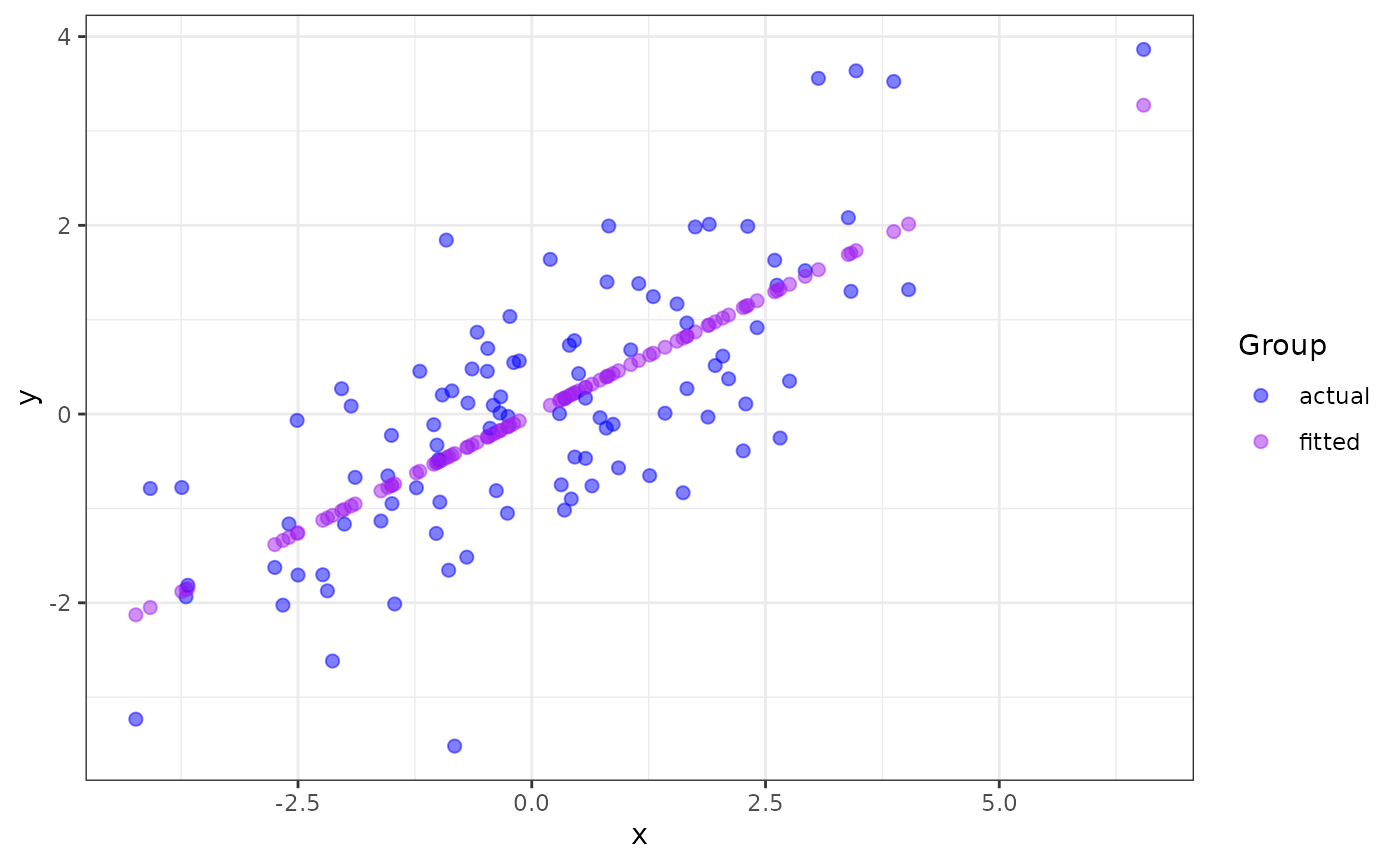
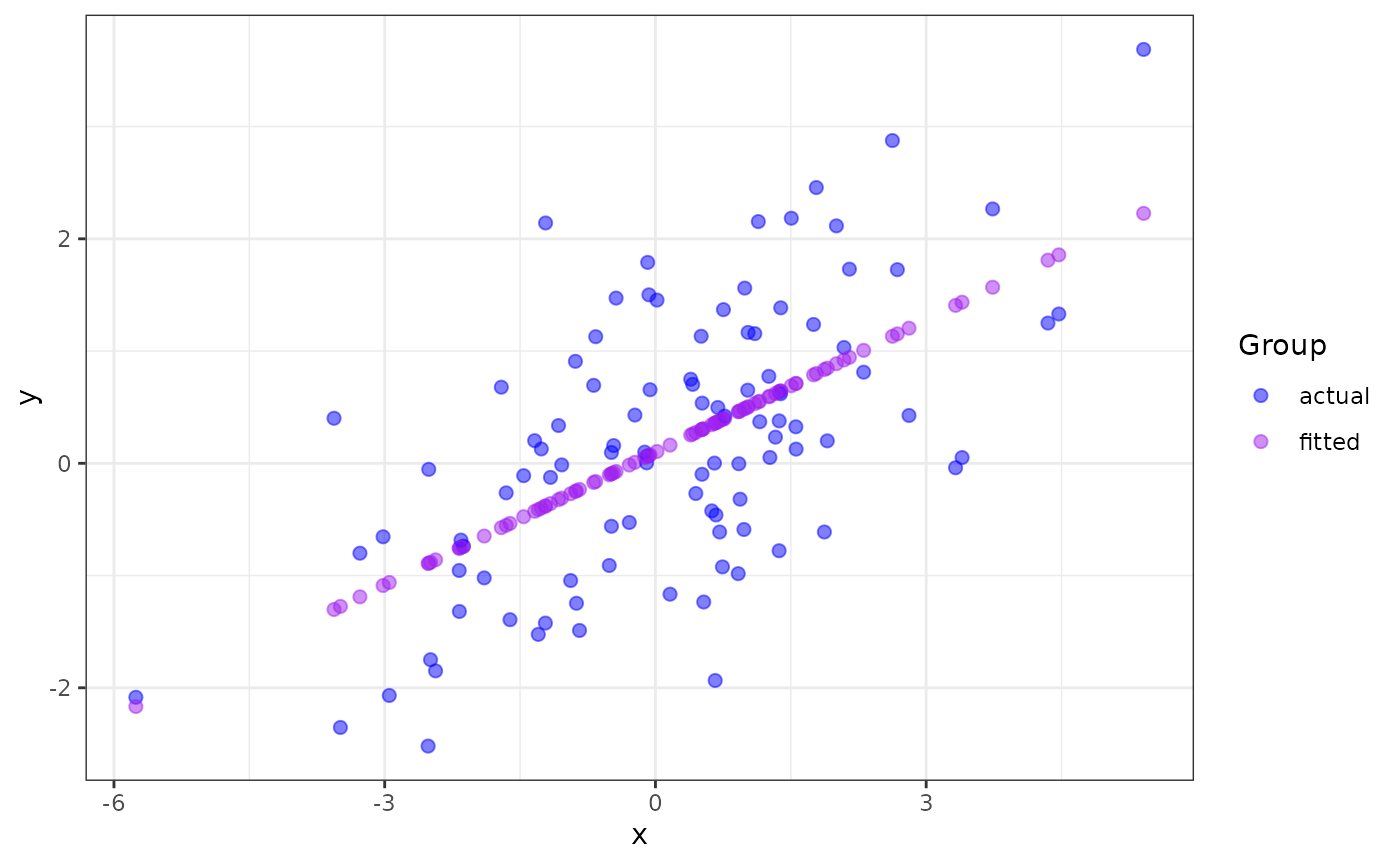
Built site for ggmatplot: 0.1.2@0722214

diff --git a/articles/ggmatplot.html b/articles/ggmatplot.html
@@ -103,7 +103,7 @@
 <span class="va">x</span> <span class="op">&lt;-</span> <span class="fu"><a href="https://rdrr.io/r/base/c.html" class="external-link">c</a></span><span class="op">(</span><span class="fu"><a href="https://rdrr.io/r/stats/Normal.html" class="external-link">rnorm</a></span><span class="op">(</span><span class="fl">100</span>, sd <span class="op">=</span> <span class="fl">2</span><span class="op">)</span><span class="op">)</span>
 
 <span class="fu"><a href="https://rdrr.io/r/utils/head.html" class="external-link">head</a></span><span class="op">(</span><span class="va">x</span><span class="op">)</span>
-<span class="co">#&gt; [1]  1.4253932 -0.4119434  4.0306161 -0.2535960 -2.7484948  0.4224148</span>
+<span class="co">#&gt; [1]  0.9803361  0.5351112  0.6707885 -2.5120167  2.6256198  0.6911889</span>
 
 <span class="co"># matrix z</span>
 <span class="va">y</span> <span class="op">&lt;-</span> <span class="va">x</span> <span class="op">*</span> <span class="fl">0.5</span> <span class="op">+</span> <span class="fu"><a href="https://rdrr.io/r/stats/Normal.html" class="external-link">rnorm</a></span><span class="op">(</span><span class="fl">100</span>, sd <span class="op">=</span> <span class="fl">1</span><span class="op">)</span>
@@ -112,13 +112,13 @@
            fitted <span class="op">=</span> <span class="va">fit.y</span><span class="op">)</span>
 
 <span class="fu"><a href="https://rdrr.io/r/utils/head.html" class="external-link">head</a></span><span class="op">(</span><span class="va">z</span><span class="op">)</span>
-<span class="co">#&gt;         actual     fitted</span>
-<span class="co">#&gt; 1  0.009029587  0.7082586</span>
-<span class="co">#&gt; 2  0.093369343 -0.2123022</span>
-<span class="co">#&gt; 3  1.318497364  2.0135537</span>
-<span class="co">#&gt; 4 -0.024751244 -0.1329654</span>
-<span class="co">#&gt; 5 -1.625646478 -1.3829848</span>
-<span class="co">#&gt; 6 -0.899978482  0.2057363</span></code></pre></div>
+<span class="co">#&gt;        actual     fitted</span>
+<span class="co">#&gt; 1 -0.58970837  0.4842572</span>
+<span class="co">#&gt; 2 -1.23577232  0.3090960</span>
+<span class="co">#&gt; 3 -0.46050292  0.3624744</span>
+<span class="co">#&gt; 4 -0.05395824 -0.8897110</span>
+<span class="co">#&gt; 5  2.87556427  1.1315480</span>
+<span class="co">#&gt; 6  0.49743446  0.3705004</span></code></pre></div>
 <p><code>ggmatplot</code> plots vector <code>x</code> against each column of matrix <code>z</code> using the default <code>plot_type = "point"</code>. This will be represented on the resulting plot as two groups, identified using different shapes and colors.</p>
 <div class="sourceCode" id="cb2"><pre class="downlit sourceCode r">
 <code class="sourceCode R"><span class="kw"><a href="https://rdrr.io/r/base/library.html" class="external-link">library</a></span><span class="op">(</span><span class="va"><a href="https://github.com/xuan-liang/ggmatplot" class="external-link">ggmatplot</a></span><span class="op">)</span>
